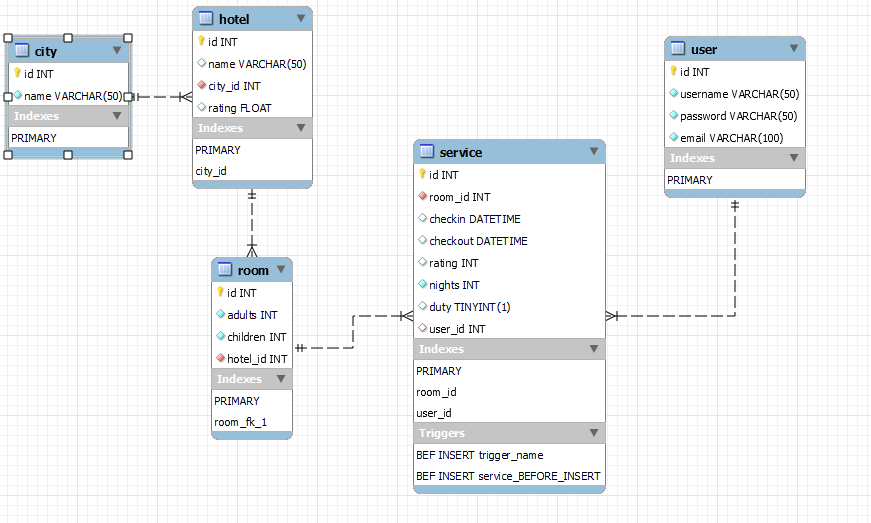
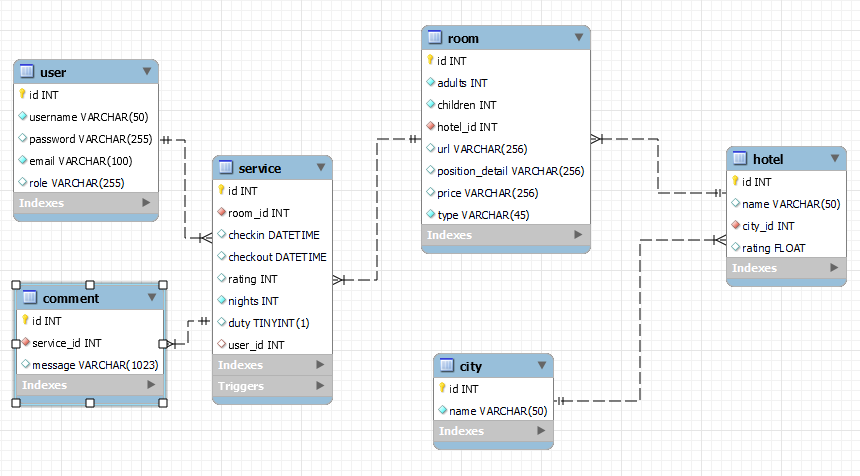
add comment and get all comments of a room

Changed region(s): [[0.0, 0.0, 0.9977, 0.9706], [0.7256, 0.5, 0.7558, 0.5294], [0.6953, 0.3824, 0.7256, 0.4118]]

diff --git a/server/controllers/comment.js b/server/controllers/comment.js
@@ -1,0 +1,55 @@
+const catchAsyncError = require("../middlewares/catchAsyncErrors");
+const { connection } = require("../db/database");
+
+exports.getRoomComment = catchAsyncError(async (req, res, next) => {
+	var { room_id } = req.query;
+
+    const page = req.query.page || 1;
+	const limit = req.query.limit || 10;
+
+	const startIndex = (page - 1) * limit;
+	const endIndex = page * limit;
+
+	const sql = `
+        SELECT *
+        FROM service
+        LEFT JOIN \`comment\` ON \`comment\`.service_id = service.id
+        WHERE service.room_id = ?
+        UNION
+        SELECT *
+        FROM service
+        RIGHT JOIN \`comment\` ON \`comment\`.service_id = service.id
+        WHERE service.room_id = ?;
+    `;
+	connection.query(sql, [room_id, room_id], function(err, result) {
+		if (err) throw err;
+		// To do: if success, redirect to the list of hotel url
+		commentList = [];
+		result.forEach((row) => {
+			commentList.push({
+				room_id: row.room_id,
+                comment: row.message,
+                rating: row.rating,
+                user_id: row.user_id
+			});
+		});
+		const resultComment = commentList.slice(startIndex, endIndex);
+		res.status(200).json(resultComment);
+	});
+});
+
+exports.addComment = catchAsyncError(async (req, res, next) => {
+	var { service_id, message } = req.body;
+  
+    const sql = "INSERT INTO \`comment\` (service_id, message) VALUES (?, ?)";
+
+    try {
+        await connection.query(sql, [service_id, message]);
+
+        console.log("Comment added!");
+        res.status(200).json({detail: "Comment added!"});
+
+    } catch (error) {
+        next(error);
+    }
+});

diff --git a/server/index.js b/server/index.js
@@ -22,11 +22,13 @@ const hotelRoute = require("./routes/hotel");
 const serviceRoute = require("./routes/service");
 const roomRoute = require("./routes/room");
 const cityRoute = require("./routes/city");
+const commentRoute = require("./routes/comment");
 app.use("/api/v1", authRoute);
 app.use("/api/v1", hotelRoute);
 app.use("/api/v1", serviceRoute);
 app.use("/api/v1", roomRoute);
 app.use("/api/v1", cityRoute);
+app.use("/api/v1", commentRoute);
 
 const PORT = process.env.PORT || 8000;
 app.listen(PORT, () => console.log(`Application listen on port ${PORT}!`))

diff --git a/server/routes/comment.js b/server/routes/comment.js
@@ -1,0 +1,10 @@
+const express = require("express");
+
+const router = express.Router();
+
+const { getRoomComment, addComment } = require("../controllers/comment");
+
+router.get("/get_room_comment", getRoomComment);
+router.post("/add_comment", addComment);
+
+module.exports = router;
